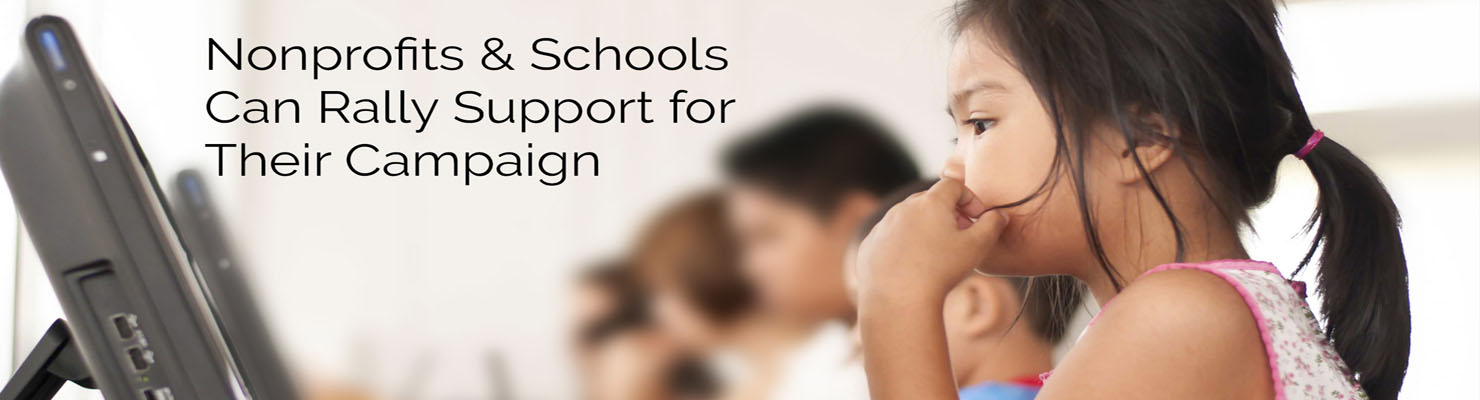
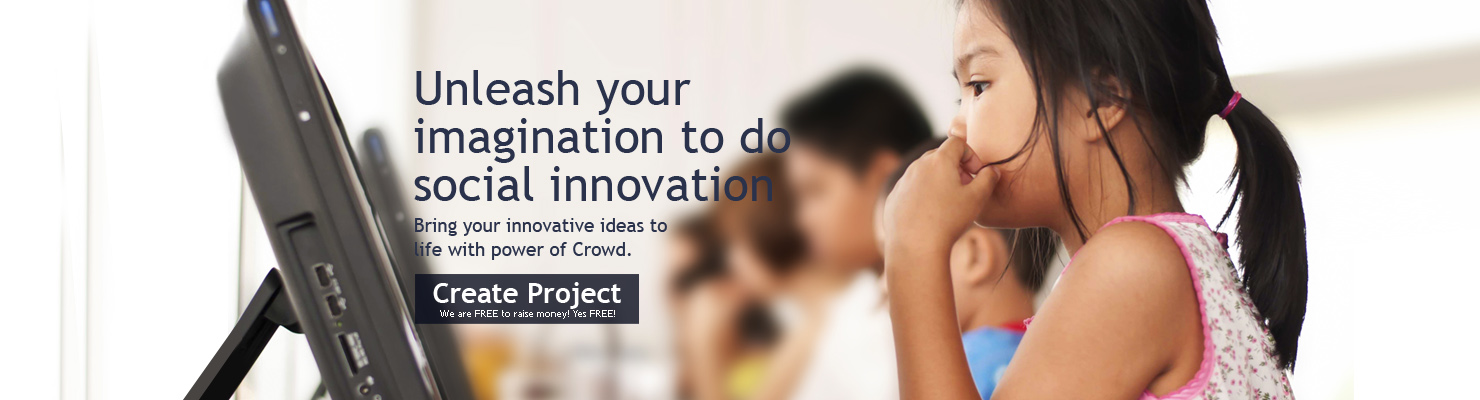
CDRA: 546 New slider with buttons

diff --git a/web-app/css/fedu.css b/web-app/css/fedu.css
@@ -241,6 +241,67 @@ a:hover, .navbar-default .navbar-nav > .active > a:focus {
     color: white;
 }
 
+.carousel-caption imageCarouseltextbox{
+	position: absolute;
+	right: 15%;
+    bottom: 20px;
+    left: 15%;
+    max-width:20px;
+}
+
+.imageCarousellabel {
+  background-color: black;
+  padding-top: 6px;
+  height: 43px;
+  width: 560px;
+  margin-left: -2px;
+  margin-top: -93px;
+}
+
+.btn-image {
+  background-color:#FF7F50;
+  border-color: #ccc;
+  width:86.38px;
+  height:30.2px;
+  padding:0px;
+}
+
+.imageCarouseltextbox .imageCoureselForm{
+  width:20%;
+  font-size: 10px;
+  color: #555;
+  background-color: #fff;
+  background-image: none;
+  border: 1px solid #ccc;
+  -webkit-box-shadow: inset 0 1px 1px rgba(0, 0, 0, .075);
+          box-shadow: inset 0 1px 1px rgba(0, 0, 0, .075);
+  -webkit-transition: border-color ease-in-out .15s, -webkit-box-shadow ease-in-out .15s;
+       -o-transition: border-color ease-in-out .15s, box-shadow ease-in-out .15s;
+          transition: border-color ease-in-out .15s, box-shadow ease-in-out .15s;
+}
+
+.imageCarouseltextbox .imageCoureselForm:focus {
+  border-color: #66afe9;
+  outline: 0;
+  -webkit-box-shadow: inset 0 1px 1px rgba(0,0,0,.075), 0 0 8px rgba(102, 175, 233, .6);
+          box-shadow: inset 0 1px 1px rgba(0,0,0,.075), 0 0 8px rgba(102, 175, 233, .6);
+}
+
+.imageCarouseltextbox .imageCoureselForm::-moz-placeholder {
+  color: #999;
+  opacity: 1;
+}
+.imageCarouseltextbox .imageCoureselForm:-ms-input-placeholder {
+  color: #999;
+}
+.imageCarouseltextbox .imageCoureselForm::-webkit-input-placeholder {
+  color: #999;
+}
+
+.imageCarouseltextbox .form-group{
+	
+}
+
 #errormsg {
     color: red;
 }
@@ -1581,6 +1642,12 @@ textarea.form-control {
 	}
 }
 @media only screen and (max-width: 480px){
+	.desktop-carousel {
+		display:none;
+	}
+	.mobile-carousel {
+			display:block;
+	}
 	.team-footer {
 	    width: 100% !important;
 	    margin-right: 0px !important;
@@ -1924,6 +1991,10 @@ button.projectedit.close{
 
 .button-team-footer .dropdown-menu {
 	width: 342px;
+}
+
+.mobile-carousel{
+	display:none;
 }
 
 .show-team{

diff --git a/web-app/js/home/registration.js b/web-app/js/home/registration.js
@@ -22,6 +22,10 @@ $(function() {
             lastName: {
                 minlength: 2,
                 required: true
+            },
+            name : {
+            	minlength: 2,
+                required: true
             }
         }
     });
